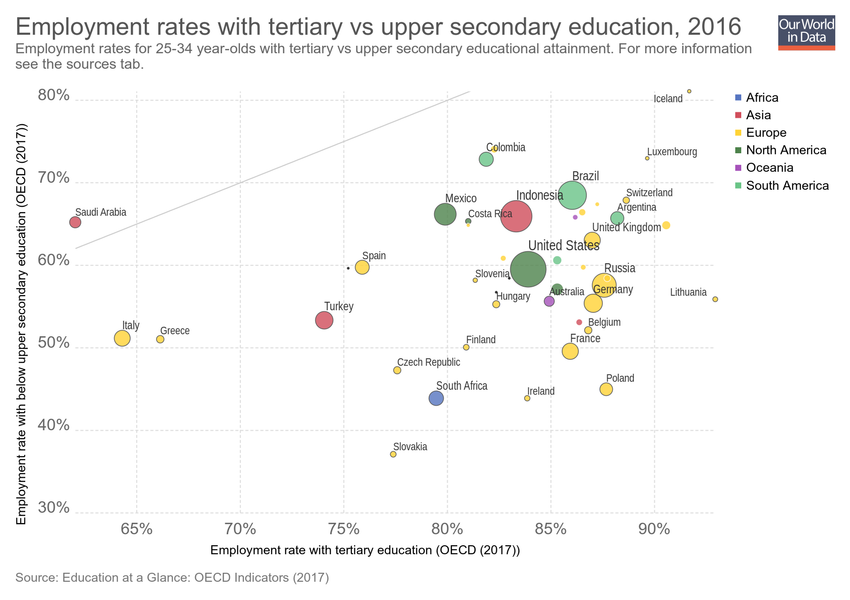
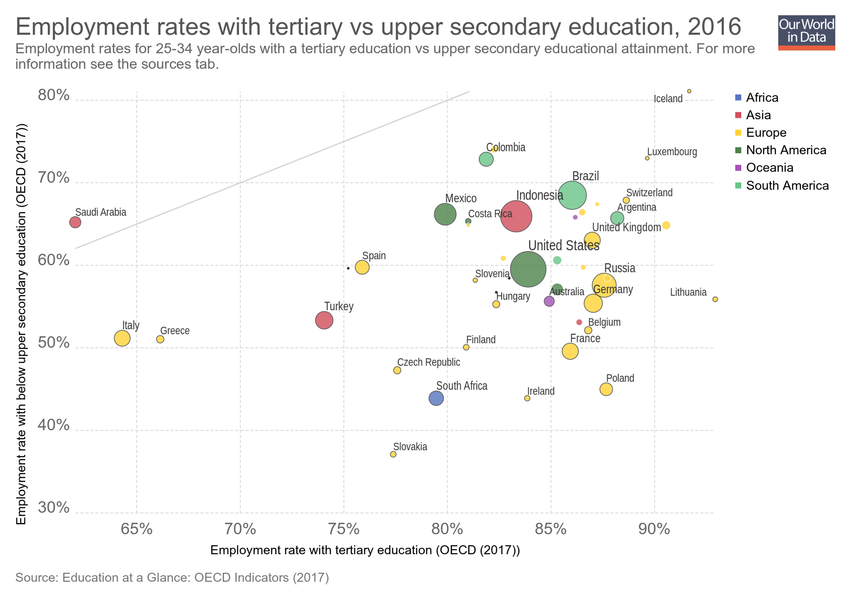
Updating chart employment-rates-with-tertiary-vs-upper-secondary-education

Changed region(s): [[0.3365, 0.06, 0.8871, 0.09], [0.0, 0.09, 0.2753, 0.12]]

diff --git a/grapher/employment-rates-with-tertiary-vs-upper-secondary-education.html b/grapher/employment-rates-with-tertiary-vs-upper-secondary-education.html
@@ -1,4 +1,4 @@
-<!doctype html><html><head><meta name="viewport" content="width=device-width, initial-scale=1" /><title>Employment rates with tertiary vs upper secondary education - Our World in Data</title><meta name="description" content="Employment rates for 25-34 year-olds with tertiary vs upper secondary educational attainment. For more information see the sources tab." /><link rel="canonical" href="https://ourworldindata.org/grapher/employment-rates-with-tertiary-vs-upper-secondary-education" /><meta property="fb:app_id" content="1149943818390250" /><meta property="og:url" content="https://ourworldindata.org/grapher/employment-rates-with-tertiary-vs-upper-secondary-education" /><meta property="og:title" content="Employment rates with tertiary vs upper secondary education" /><meta property="og:description" content="Employment rates for 25-34 year-olds with tertiary vs upper secondary educational attainment. For more information see the sources tab." /><meta property="og:image" content="https://ourworldindata.org/grapher/exports/employment-rates-with-tertiary-vs-upper-secondary-education.png?v=3" /><meta property="og:image:width" content="850" /><meta property="og:image:height" content="600" /><meta property="og:site_name" content="Our World in Data" /><meta name="twitter:card" content="summary_large_image" /><meta name="twitter:site" content="@OurWorldInData" /><meta name="twitter:creator" content="@OurWorldInData" /><meta name="twitter:title" content="Employment rates with tertiary vs upper secondary education" /><meta name="twitter:description" content="Employment rates for 25-34 year-olds with tertiary vs upper secondary educational attainment. For more information see the sources tab." /><meta name="twitter:image" content="https://ourworldindata.org/grapher/exports/employment-rates-with-tertiary-vs-upper-secondary-education.png?v=3" /><style>
+<!doctype html><html><head><meta name="viewport" content="width=device-width, initial-scale=1" /><title>Employment rates with tertiary vs upper secondary education - Our World in Data</title><meta name="description" content="Employment rates for 25-34 year-olds with a tertiary education vs upper secondary educational attainment. For more information see the sources tab." /><link rel="canonical" href="https://ourworldindata.org/grapher/employment-rates-with-tertiary-vs-upper-secondary-education" /><meta property="fb:app_id" content="1149943818390250" /><meta property="og:url" content="https://ourworldindata.org/grapher/employment-rates-with-tertiary-vs-upper-secondary-education" /><meta property="og:title" content="Employment rates with tertiary vs upper secondary education" /><meta property="og:description" content="Employment rates for 25-34 year-olds with a tertiary education vs upper secondary educational attainment. For more information see the sources tab." /><meta property="og:image" content="https://ourworldindata.org/grapher/exports/employment-rates-with-tertiary-vs-upper-secondary-education.png?v=4" /><meta property="og:image:width" content="850" /><meta property="og:image:height" content="600" /><meta property="og:site_name" content="Our World in Data" /><meta name="twitter:card" content="summary_large_image" /><meta name="twitter:site" content="@OurWorldInData" /><meta name="twitter:creator" content="@OurWorldInData" /><meta name="twitter:title" content="Employment rates with tertiary vs upper secondary education" /><meta name="twitter:description" content="Employment rates for 25-34 year-olds with a tertiary education vs upper secondary educational attainment. For more information see the sources tab." /><meta name="twitter:image" content="https://ourworldindata.org/grapher/exports/employment-rates-with-tertiary-vs-upper-secondary-education.png?v=4" /><style>
         html, body {
             height: 100%;
             margin: 0;
@@ -20,8 +20,8 @@
         }
     </style><noscript><style>
                     figure { display: none !important; }
-                </style></noscript><link rel="stylesheet" href="https://ourworldindata.org/grapher/assets/commons.bundle.b9f051796dbbbb7e5139.css" /><link rel="preload" href="/grapher/data/variables/97775+97778+72+123.json?v=3" as="fetch" crossorigin /></head><body class="singleChart"><figure data-grapher-src="/grapher/employment-rates-with-tertiary-vs-upper-secondary-education"></figure><noscript id="fallback"><img src="/grapher/exports/employment-rates-with-tertiary-vs-upper-secondary-education.svg" /><p>Interactive visualization requires JavaScript</p></noscript><script src="https://cdn.polyfill.io/v2/polyfill.min.js?features=es6,fetch"></script><script src="https://ourworldindata.org/grapher/assets/commons.bundle.b9f051796dbbbb7e5139.js"></script><script src="https://ourworldindata.org/grapher/assets/charts.bundle.b9f051796dbbbb7e5139.js"></script><script>
-        var jsonConfig = {"id":2949,"map":{"projection":"World","colorSchemeLabels":[],"colorSchemeValues":[],"customNumericColors":[],"customCategoryColors":{},"customCategoryLabels":{},"customHiddenCategories":{}},"tab":"chart","slug":"employment-rates-with-tertiary-vs-upper-secondary-education","type":"ScatterPlot","title":"Employment rates with tertiary vs upper secondary education","xAxis":{"scaleType":"linear"},"yAxis":{"min":30,"scaleType":"linear"},"version":3,"subtitle":"Employment rates for 25-34 year-olds with tertiary vs upper secondary educational attainment. For more information see the sources tab.","hasMapTab":false,"stackMode":"absolute","dimensions":[{"display":{},"property":"y","variableId":97775},{"display":{"name":"Employment rate with tertiary education (OECD (2017))"},"property":"x","variableId":97778},{"display":{},"property":"size","variableId":72},{"display":{},"property":"color","variableId":123}],"isAutoSlug":true,"hasChartTab":true,"isPublished":true,"selectedData":[],"comparisonLine":{}};
+                </style></noscript><link rel="stylesheet" href="https://ourworldindata.org/grapher/assets/commons.bundle.b9f051796dbbbb7e5139.css" /><link rel="preload" href="/grapher/data/variables/97775+97778+72+123.json?v=4" as="fetch" crossorigin /></head><body class="singleChart"><figure data-grapher-src="/grapher/employment-rates-with-tertiary-vs-upper-secondary-education"></figure><noscript id="fallback"><img src="/grapher/exports/employment-rates-with-tertiary-vs-upper-secondary-education.svg" /><p>Interactive visualization requires JavaScript</p></noscript><script src="https://cdn.polyfill.io/v2/polyfill.min.js?features=es6,fetch"></script><script src="https://ourworldindata.org/grapher/assets/commons.bundle.b9f051796dbbbb7e5139.js"></script><script src="https://ourworldindata.org/grapher/assets/charts.bundle.b9f051796dbbbb7e5139.js"></script><script>
+        var jsonConfig = {"id":2949,"map":{"projection":"World","colorSchemeLabels":[],"colorSchemeValues":[],"customNumericColors":[],"customCategoryColors":{},"customCategoryLabels":{},"customHiddenCategories":{}},"tab":"chart","slug":"employment-rates-with-tertiary-vs-upper-secondary-education","type":"ScatterPlot","title":"Employment rates with tertiary vs upper secondary education","xAxis":{"scaleType":"linear"},"yAxis":{"min":30,"scaleType":"linear"},"version":4,"subtitle":"Employment rates for 25-34 year-olds with a tertiary education vs upper secondary educational attainment. For more information see the sources tab.","hasMapTab":false,"stackMode":"absolute","dimensions":[{"display":{},"property":"y","variableId":97775},{"display":{"name":"Employment rate with tertiary education (OECD (2017))"},"property":"x","variableId":97778},{"display":{},"property":"size","variableId":72},{"display":{},"property":"color","variableId":123}],"isAutoSlug":true,"hasChartTab":true,"isPublished":true,"selectedData":[],"comparisonLine":{}};
         var figure = document.getElementsByTagName("figure")[0];
         try {
             window.App = {};
